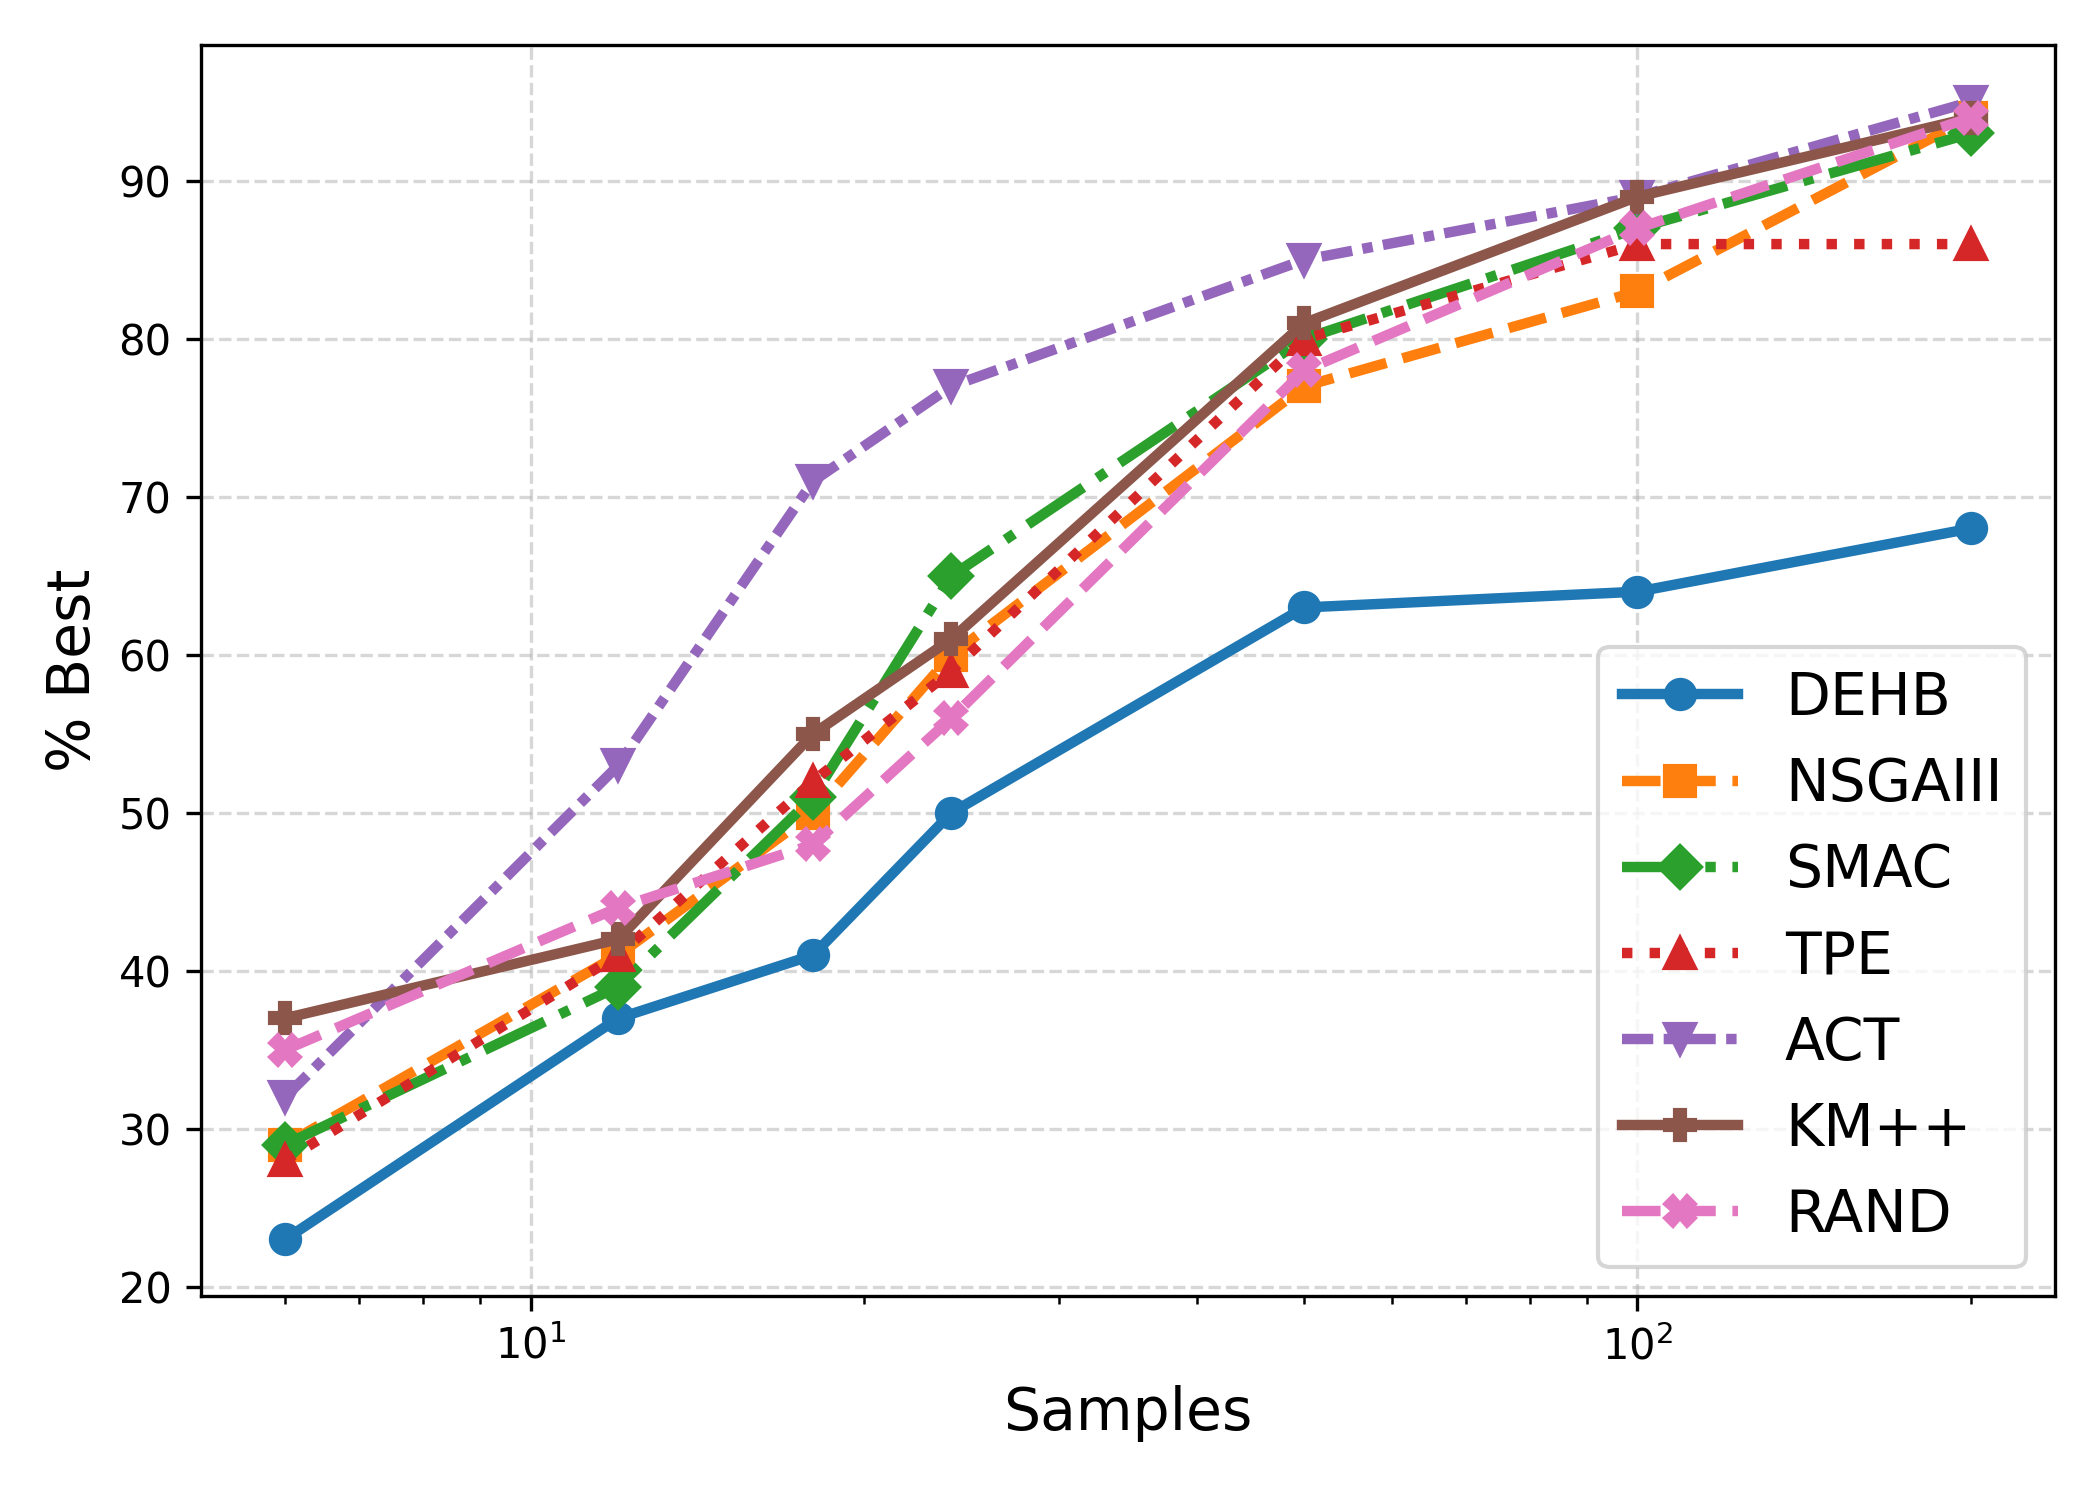
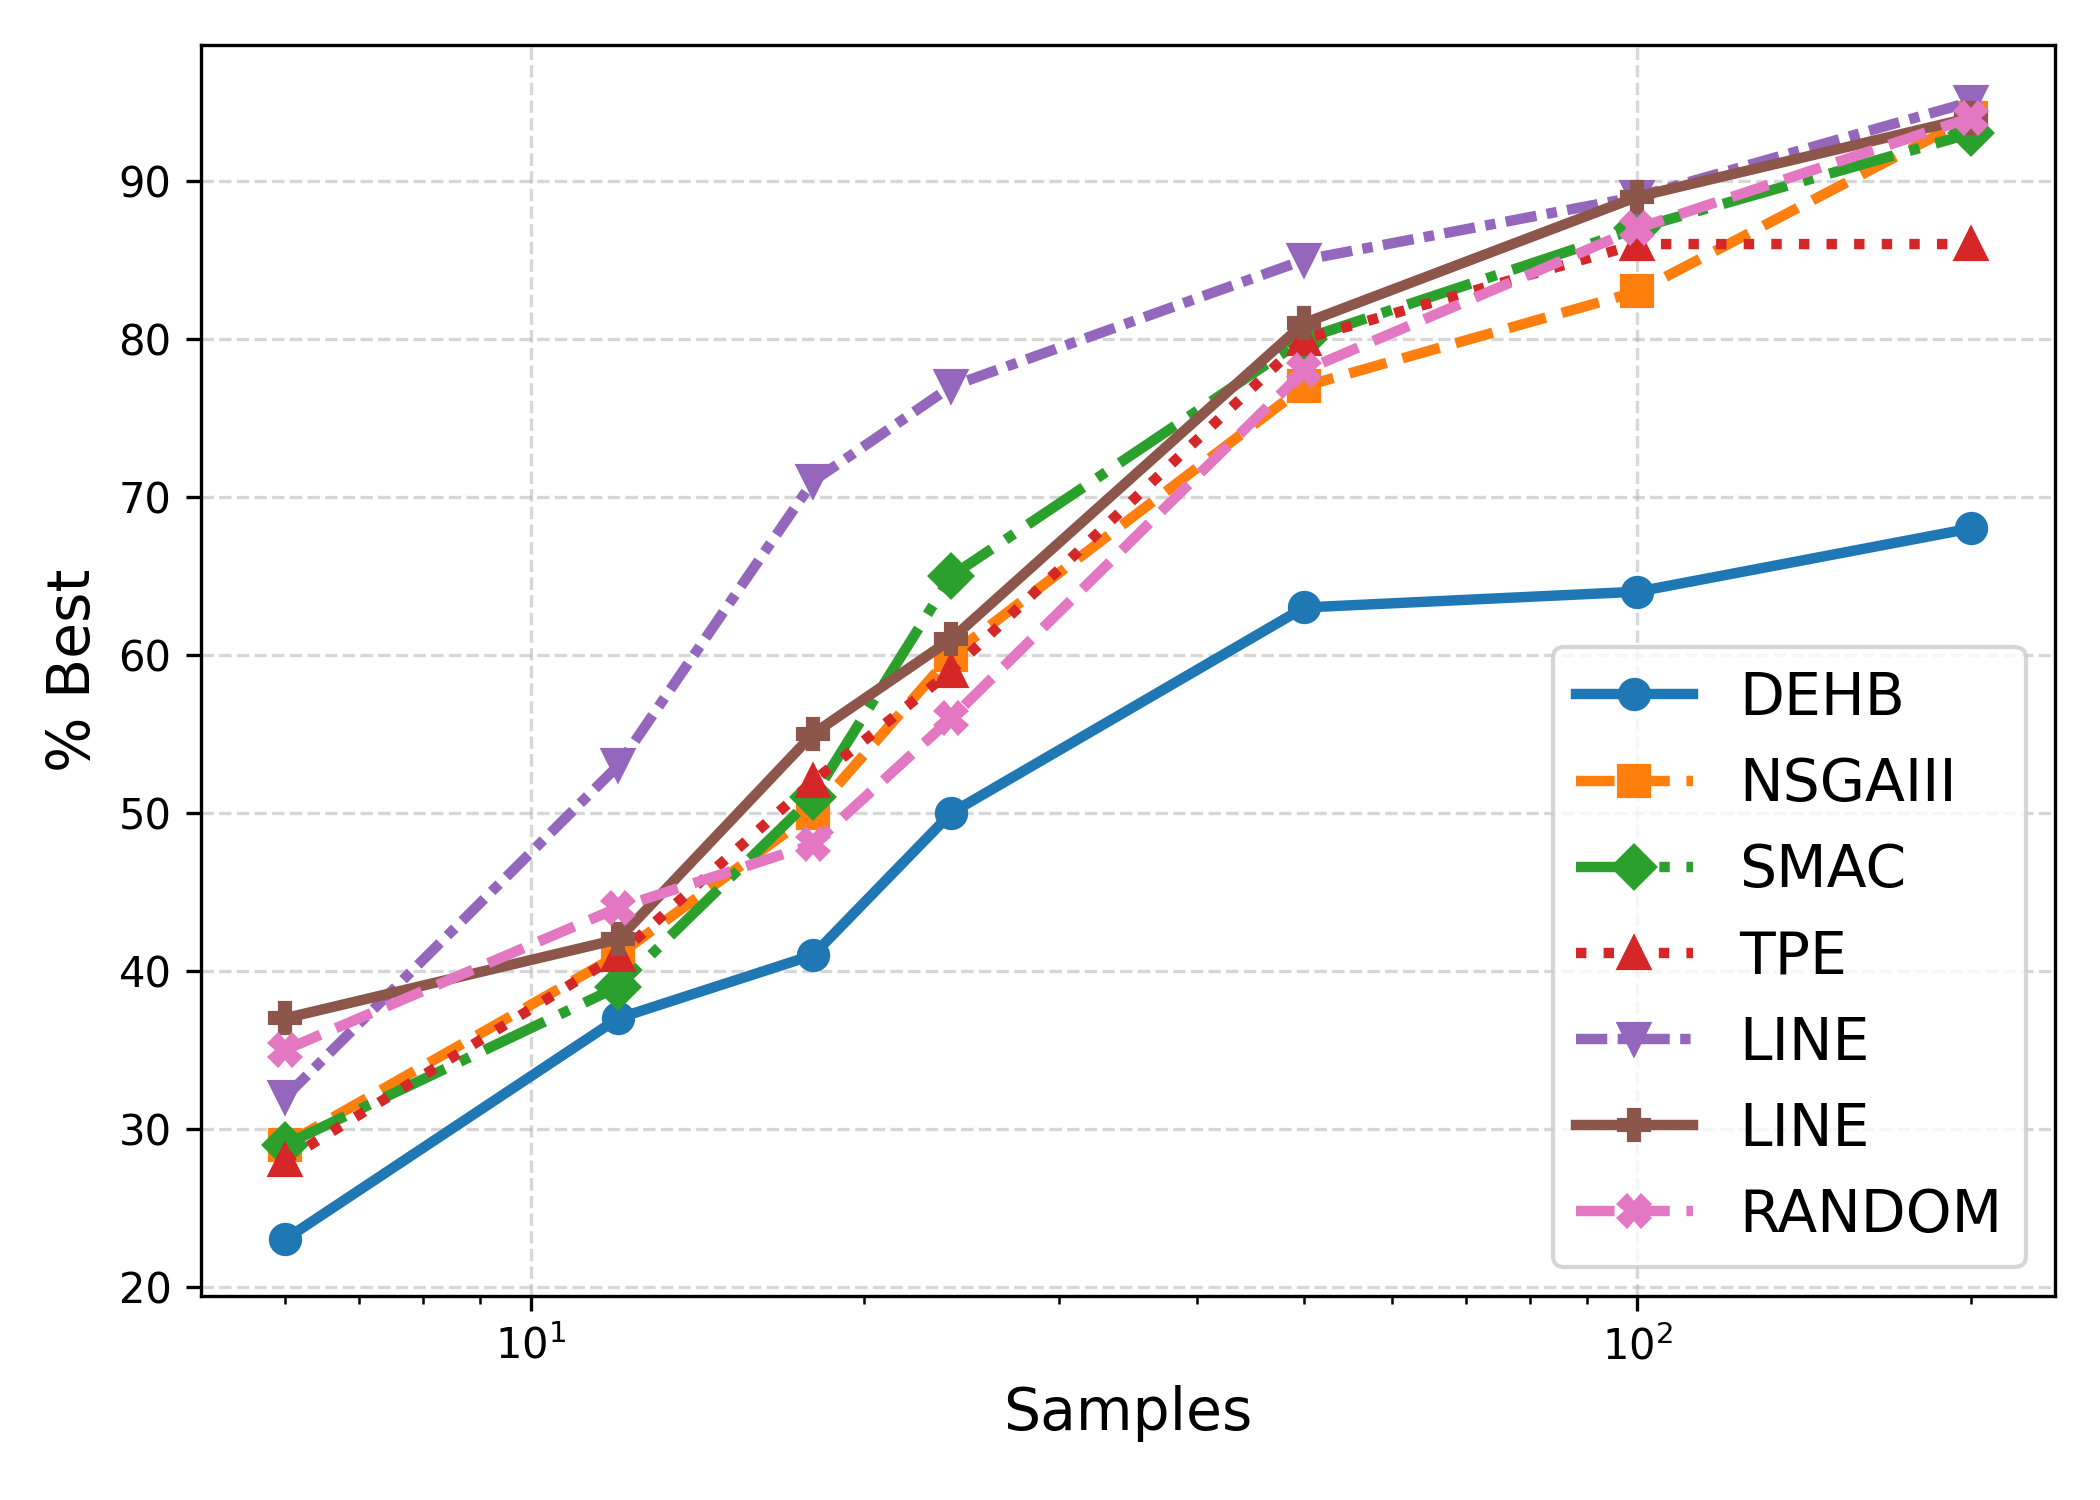
added result plot

diff --git a/experiments/optim_performance_comp.py b/experiments/optim_performance_comp.py
@@ -76,6 +76,11 @@ for fam in optimizers:
     plot_data[fam] = extract_percent_values(fam)
 
 plot_df = pd.DataFrame(plot_data)
+rename_map = {
+    "ACT": "LINE",
+    "KM++": "LINE",
+    "RAND": "RANDOM"
+}
 
 # ----------------------------------------------------
 # PLOT
@@ -96,7 +101,7 @@ for idx, fam in enumerate(families):
         marker=markers[idx % len(markers)],
         linestyle=linestyles[idx % len(linestyles)],
         color=colors[idx % len(colors)],
-        label=fam,
+        label=rename_map.get(fam, fam),   # ← REPLACED
         linewidth=2.5,
         markersize=7
     )
